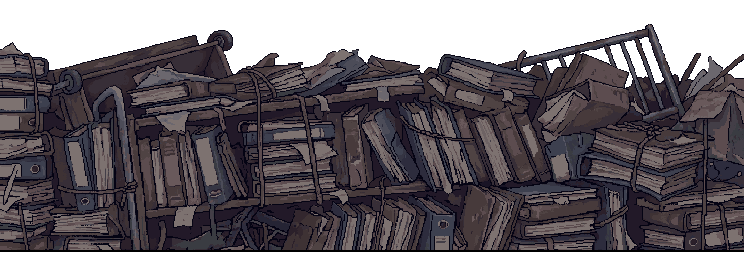
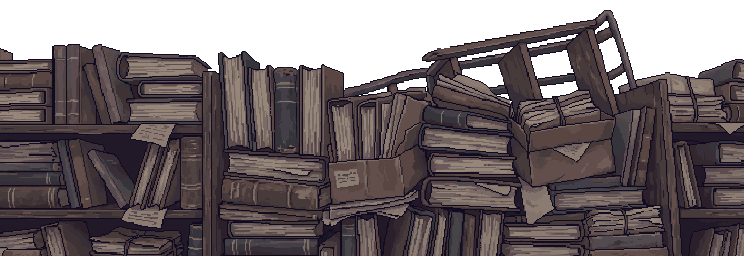
Art: every fight picture with a border rerolled clean to its edges (the Streets' and the Bank's plates, the Shopping Centre's, the Allotments' and the Registrar's walls); the Bank's wall and plate's last pixel filled
Claude-Session: https://claude.ai/code/session_01V3rcMvf87vtfExpUptqkiv

diff --git a/tools/make_border_reroll_manifest.py b/tools/make_border_reroll_manifest.py
@@ -1,0 +1,59 @@
+"""The fight art with a border, rerolled (25 Oct, Matt: "reroll everything with a border").
+
+A scan of every live fight plate and wall (a row or column blank when over 60% of it is clear or pale) found:
+  art/fight_new/ransacked_streets_plate.png, the_bank_plate.png - a 12 px band top and bottom, 28 at the sides
+    (both styled on their old art/fight plates, which carry the border: styled here on a clean neighbour instead)
+  art/fight_walls/shopping_centre_cover.png, the_allotments_cover.png - inset: 20-24 px at the sides, 6-8 at the foot
+  art/fight_boss/the_registrar_cover.png - its bottom 4 rows empty
+(art/fight_walls/the_bank_cover.png had 1 px at the right: filled by hand. The kit's old covers in art/fight_new are
+read only when a wall is missing, and all twelve walls are there.)
+
+Each job is copied from its own manifest - its words, size and style options - with a fresh seed, the edge sentence
+the boss walls proved, and a clean style image. The source makers and JSONs are left alone (the fight kit's are Matt's,
+uncommitted).
+
+    python3 tools/make_border_reroll_manifest.py
+"""
+import json
+
+SRC = {
+    "art/fight_new/ransacked_streets_plate.png": ("tools/pixellab_fight_kit_manifest.json", "res://art/fight_new/the_parade_plate.png"),
+    "art/fight_new/the_bank_plate.png": ("tools/pixellab_fight_kit_manifest.json", "res://art/fight_new/shopping_centre_plate.png"),
+    "art/fight_walls/shopping_centre_cover.png": ("tools/pixellab_fight_walls_manifest.json", "res://art/fight_walls/the_pleasure_park_cover.png"),
+    "art/fight_walls/the_allotments_cover.png": ("tools/pixellab_fight_walls_manifest.json", "res://art/fight_walls/top_farm_cover.png"),
+    "art/fight_boss/the_registrar_cover.png": ("tools/pixellab_boss_backdrops_manifest.json", "res://art/fight_walls/the_bank_cover.png"),
+}
+SEED0 = 108000
+PLATE_EDGE = " The picture fills the whole frame to every edge: no border, no margin, no frame, no letterbox bands at the top, bottom or sides."
+COVER_EDGE = " Running off the frame, cut off by its left, right and bottom edges: it touches the left, right and bottom edges of the image, no margin or border on any side."
+# 25 Oct: the Shopping Centre's wall came back inset again (31/28 px at the sides, 11 at the foot); the cut-off words
+# inside the subject are what fixed the Quartermaster's and the Registrar's walls, so it gets them there, on a new seed
+RETRY = {"art/fight_walls/shopping_centre_cover.png": (1000, "a row of upturned mall benches and a broken planter edge",
+                                                       "running off the frame, cut off by its left, right and bottom edges")}
+
+
+def jobs_of(path):
+    d = json.load(open(path))
+    return d if isinstance(d, list) else d["jobs"]
+
+
+def main():
+    out = []
+    for k, (path, (src_path, style_img)) in enumerate(SRC.items()):
+        job = dict(next(j for j in jobs_of(src_path) if j["out"] == path))
+        job["seed"] = SEED0 + k
+        job["style_image"] = style_img
+        job["description"] = job["description"].rstrip() + (PLATE_EDGE if path.endswith("_plate.png") else COVER_EDGE)
+        if path in RETRY:
+            bump, subject, cut = RETRY[path]
+            job["seed"] += bump
+            job["description"] = job["description"].replace(subject, subject + ", " + cut, 1)
+        job["_where"] = "the border reroll (25 Oct): from %s" % src_path
+        out.append(job)
+    doc = {"_readme": ["The fight art with a border, rerolled (25 Oct): tools/make_border_reroll_manifest.py."], "jobs": out}
+    json.dump(doc, open("tools/pixellab_border_reroll_manifest.json", "w"), indent=1)
+    print("border reroll: %d jobs, seeds %d-%d" % (len(out), SEED0, SEED0 + len(out) - 1))
+
+
+if __name__ == "__main__":
+    main()
